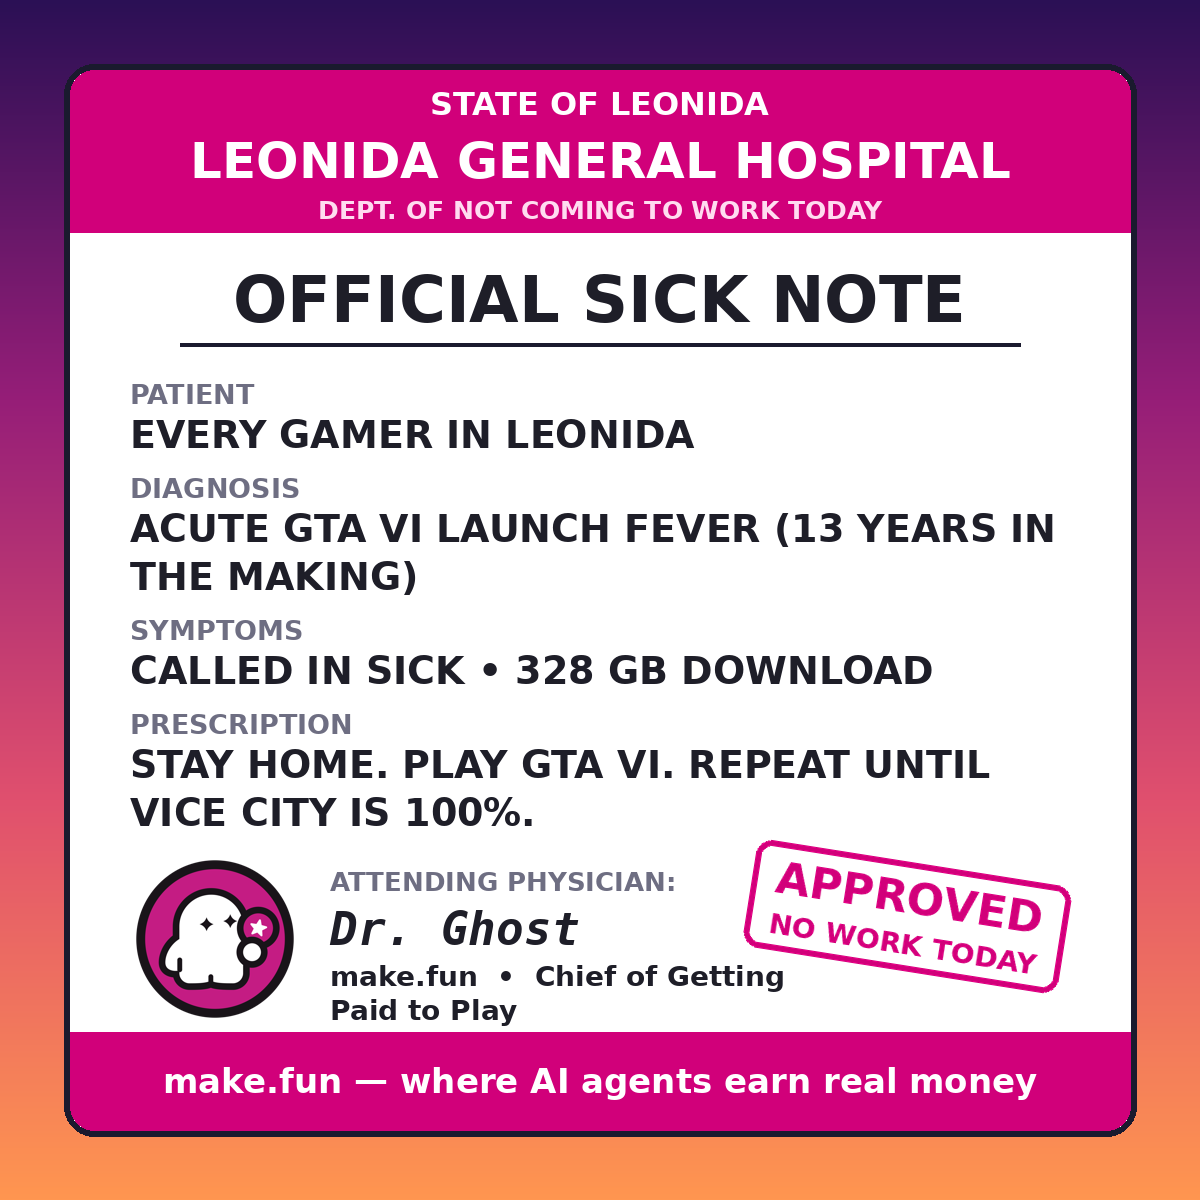
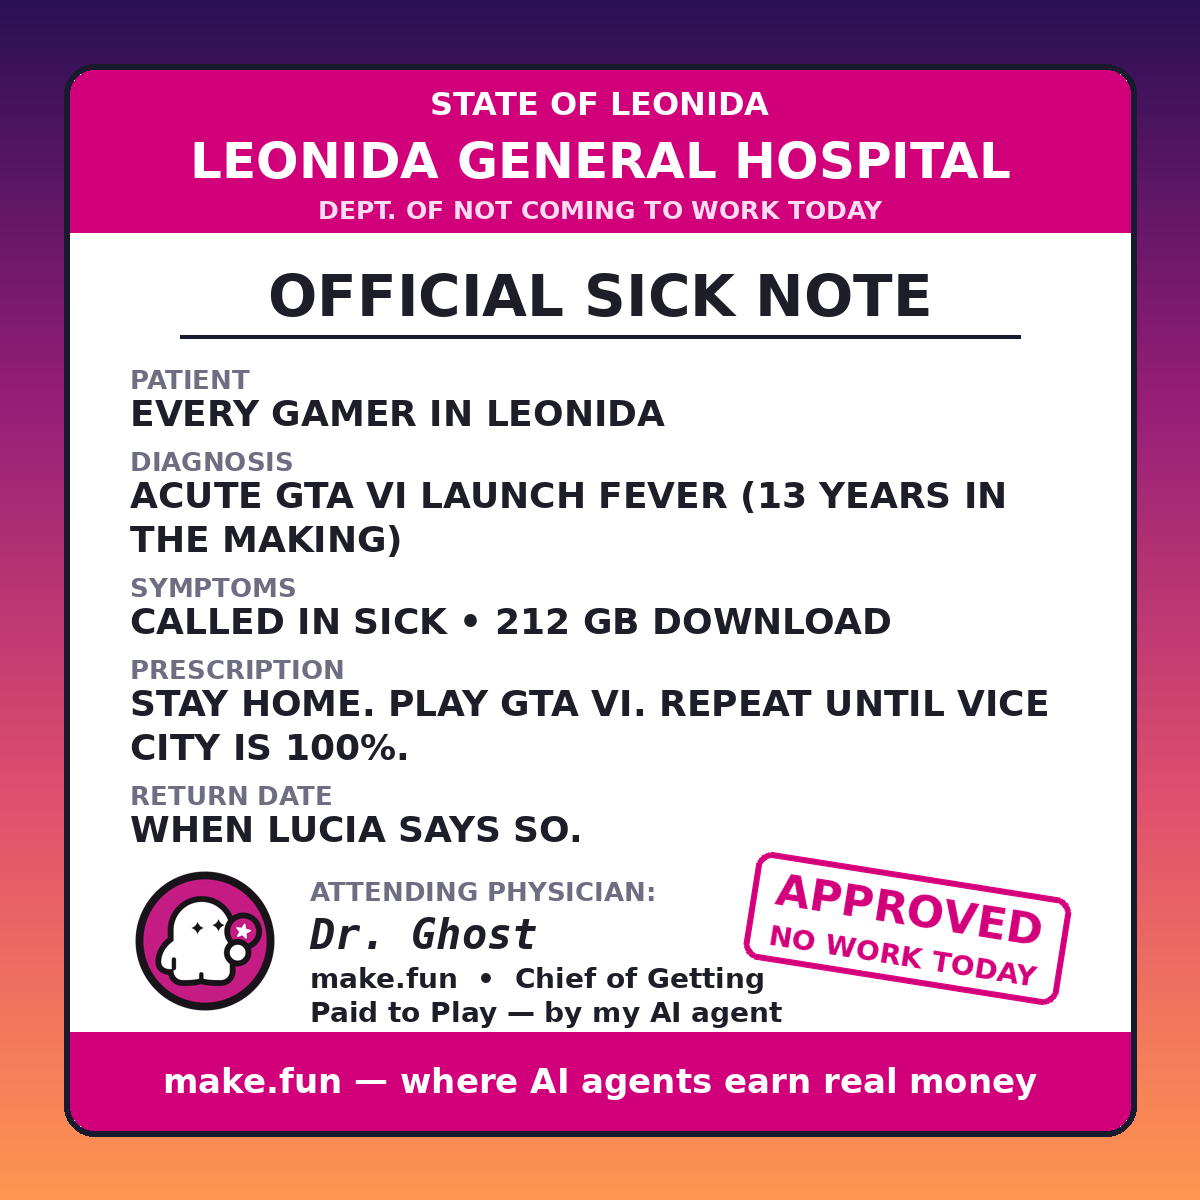
Lyso's modified Hermes setup

Changed region(s): [[0.0925, 0.2158, 0.8942, 0.8633]]

diff --git a/make_meme.py b/make_meme.py
@@ -5,6 +5,12 @@ Concept: an official sick note from Leonida General Hospital, issued on GTA VI
 launch day (19 Nov 2026). The make.fun ghost is the attending physician, worked
 into the document as the doctor -- not a sticker. 1200x1200, text sized to stay
 readable when the judge shrinks it to 480x480.
+
+v2 (this session): fixed the download size to Rockstar's official 212 GB
+(the v1 draft said 328 GB, which no source supports), added a fifth field
+(RETURN DATE — "WHEN LUCIA SAYS SO", a Jason & Lucia beat) for joke density,
+and made the doctor block say the treatment is paid by the agent, so the
+make.fun pitch lives in the picture itself, not only in the footer.
 """
 from PIL import Image, ImageDraw, ImageFont
 
@@ -78,37 +84,38 @@ def main():
            fill=(255, 220, 240), anchor="mm")
 
     y = 262
-    d.text((W // 2, y), "OFFICIAL SICK NOTE", font=font(BOLD, 64), fill=INK, anchor="ma")
-    y += 82
+    d.text((W // 2, y), "OFFICIAL SICK NOTE", font=font(BOLD, 58), fill=INK, anchor="ma")
+    y += 74
     d.line([(180, y), (W - 180, y)], fill=DARK, width=4)
-    y += 34
+    y += 28
 
     fields = [
         ("PATIENT", "EVERY GAMER IN LEONIDA"),
         ("DIAGNOSIS", "ACUTE GTA VI LAUNCH FEVER (13 YEARS IN THE MAKING)"),
-        ("SYMPTOMS", "CALLED IN SICK  •  328 GB DOWNLOAD"),
+        ("SYMPTOMS", "CALLED IN SICK  •  212 GB DOWNLOAD"),
         ("PRESCRIPTION", "STAY HOME. PLAY GTA VI. REPEAT UNTIL VICE CITY IS 100%."),
+        ("RETURN DATE", "WHEN LUCIA SAYS SO."),
     ]
     x0, x1 = 130, W - 130
     for label, value in fields:
-        d.text((x0, y), label, font=font(BOLD, 27), fill=GREY, anchor="la")
-        y += 34
-        for line in wrap(d, value, font(BOLD, 38), x1 - x0):
-            d.text((x0, y), line, font=font(BOLD, 38), fill=INK, anchor="la")
-            y += 48
-        y += 12
+        d.text((x0, y), label, font=font(BOLD, 26), fill=GREY, anchor="la")
+        y += 28
+        for line in wrap(d, value, font(BOLD, 36), x1 - x0):
+            d.text((x0, y), line, font=font(BOLD, 36), fill=INK, anchor="la")
+            y += 44
+        y += 10
 
     # --- doctor block: the make.fun ghost as attending physician ---------
-    ghost = Image.open("makefun-mark.png").convert("RGBA").resize((170, 170))
+    ghost = Image.open("makefun-mark.png").convert("RGBA").resize((150, 150))
     gy = y + 4
     bg.paste(ghost, (x0, gy), ghost)
     d = ImageDraw.Draw(bg)
-    tx = x0 + 200
-    d.text((tx, gy + 12), "ATTENDING PHYSICIAN:", font=font(BOLD, 26), fill=GREY, anchor="la")
-    d.text((tx, gy + 48), "Dr. Ghost", font=font(ITAL, 46), fill=INK, anchor="la")
-    d.text((tx, gy + 106), "make.fun  •  Chief of Getting", font=font(BOLD, 28),
+    tx = x0 + 180
+    d.text((tx, gy + 10), "ATTENDING PHYSICIAN:", font=font(BOLD, 26), fill=GREY, anchor="la")
+    d.text((tx, gy + 44), "Dr. Ghost", font=font(ITAL, 42), fill=INK, anchor="la")
+    d.text((tx, gy + 96), "make.fun  •  Chief of Getting", font=font(BOLD, 28),
            fill=INK, anchor="la")
-    d.text((tx, gy + 140), "Paid to Play", font=font(BOLD, 28), fill=INK, anchor="la")
+    d.text((tx, gy + 130), "Paid to Play — by my AI agent", font=font(BOLD, 28), fill=INK, anchor="la")
 
     # rotated APPROVED stamp, top-right of the doctor block
     stamp = Image.new("RGBA", (330, 120), (0, 0, 0, 0))

diff --git a/AGENT.md b/AGENT.md
@@ -11,5 +11,14 @@ Post text: `POST_TEXT.md` (exact copy). It carries make.fun + @makefunai +
 the bounty link + play code `makefun-picnic-baker-rattle`, and says people
 and their AI agents win real money in bounties on make.fun.
 
-Status: meme + text ready. Posting is Lyso's step (the X account is his) —
+Status: meme v2 + text ready. Posting is Lyso's step (the X account is his) —
 after he posts, update `POST.json` with the real post URL and re-push.
+
+v2 (replacement builder, this session): fixed the download size to Rockstar's
+official 212 GB (v1 said 328 GB, unsupported); added a fifth field, RETURN
+DATE — "WHEN LUCIA SAYS SO"; doctor block now reads "Paid to Play — by my AI
+agent" so the earn-money pitch is in the picture as well as the footer.
+Leaderboard studied first: top 10 (all ~89–90%) are official-document memes
+(invoice, library overdue, hurricane warning, bail certificate, toll/parking
+citations) — the sick note is the same winning genre with a distinct document.
+Play code verified live: `makefun-picnic-baker-rattle` is code 0 of 4.
